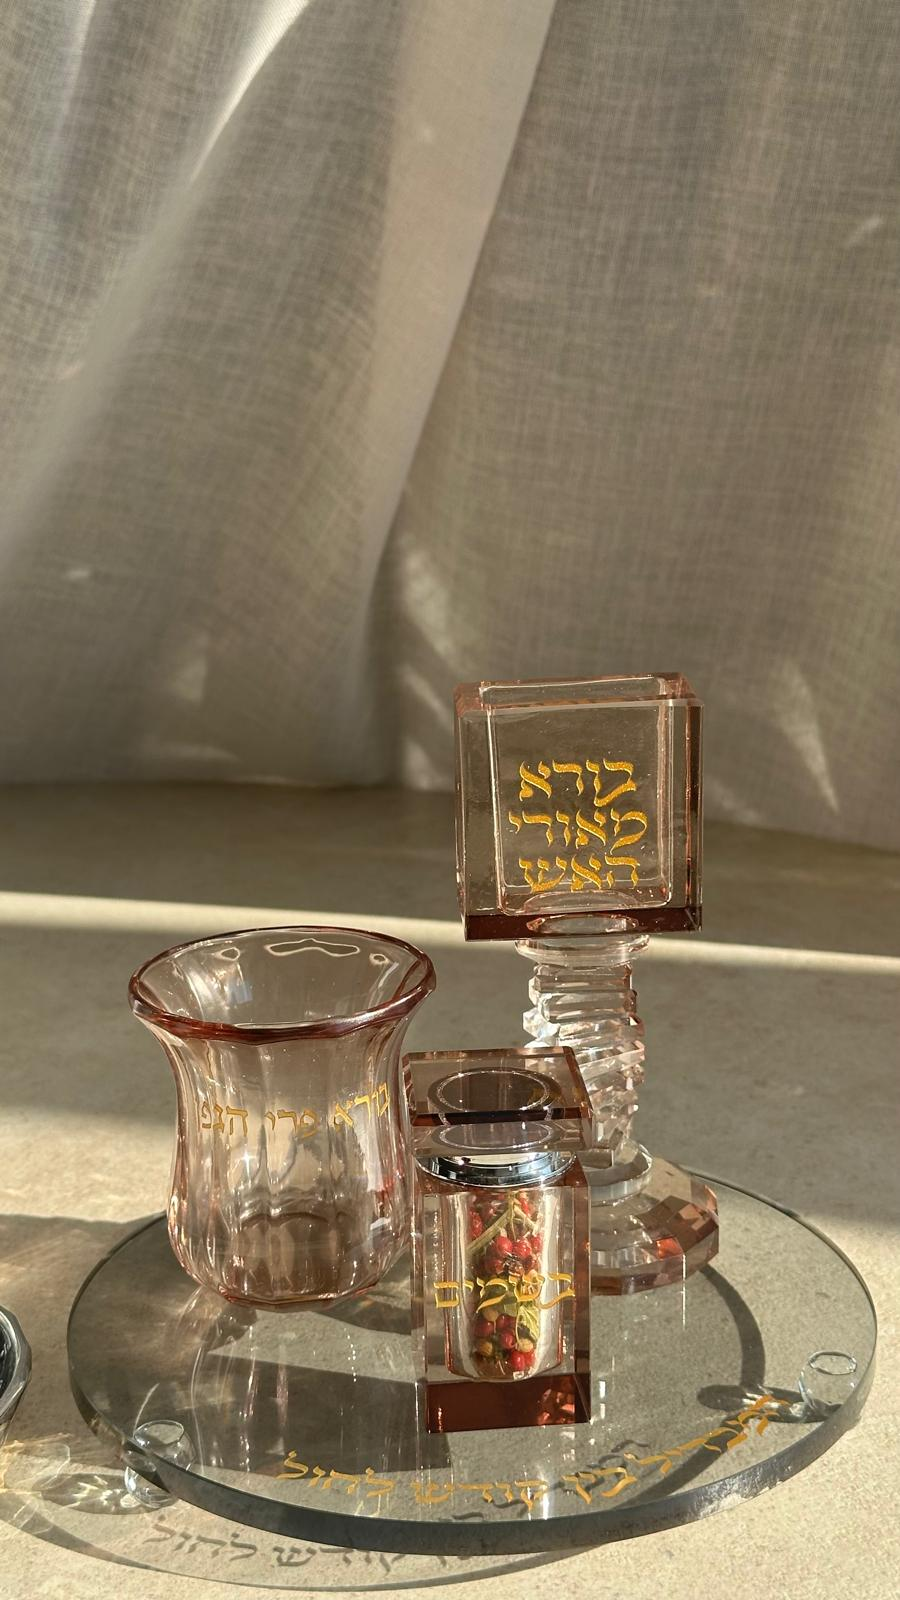
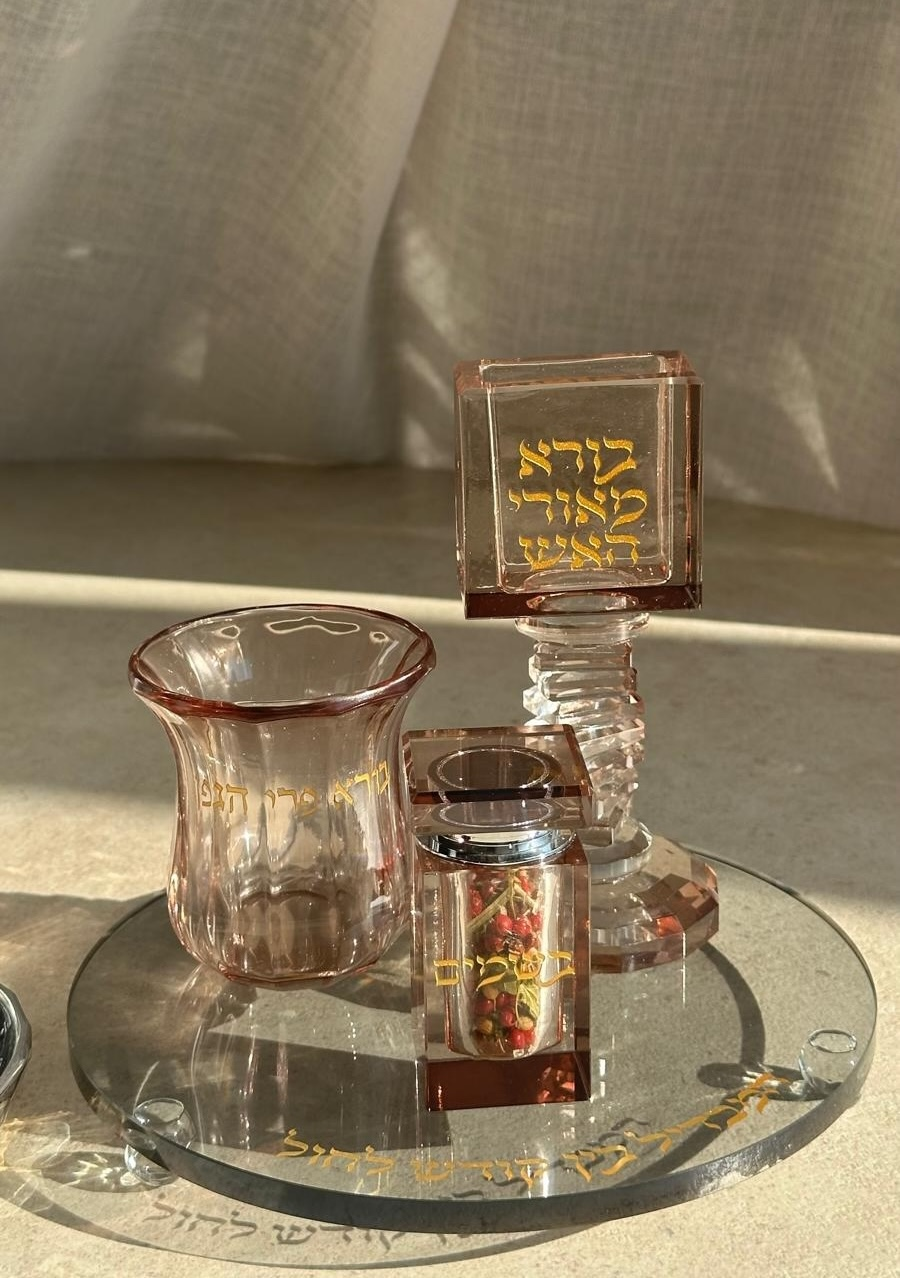
Update catalog content and product imagery

diff --git a/index.html b/index.html
@@ -58,10 +58,10 @@
     <p class="hero-tagline">אָמָנוּת · יוּדָאִיקָה</p>
     <div class="hero-actions">
       <a href="#categories" class="btn btn-primary">לקטלוג</a>
-      <a href="#about" class="btn btn-outline">הכירו אותנו</a>
+      <a href="holidays.html" class="btn btn-holiday">לקולקציות חגים ✦</a>
     </div>
     <div class="hero-actions-holiday">
-      <a href="holidays.html" class="btn btn-holiday">לקולקציות חגים ✦</a>
+      <a href="#about" class="btn btn-outline">הכירו אותנו</a>
     </div>
   </div>
   <div class="scroll-cue"></div>
@@ -178,6 +178,7 @@
           <h3>ברכת הבית</h3>
           <p class="pc-meta">מידה: 20 ס״מ</p>
           <p class="pc-desc">מזוזה בגוון שיש לבן אפור עם ברכת הבית.</p>
+          <p class="out-of-stock">אזל מהמלאי</p>
           <p class="price pc-price">120 ש״ח</p>
         </div>
       </article>
@@ -305,12 +306,128 @@
       <p class="warn">*מוצרים בהתאמה אישית, לרבות רקמה, חיתוך לייזר או הטבעה – אינם ניתנים להחזר כספי או להחלפה.</p>
     </div>
 
+    <div class="section-divider-heading reveal">
+      <h2>תְּפִלּוֹת</h2>
+    </div>
+
     <div class="bride-prayer reveal">
       <div class="bride-prayer-img"><img src="assets/img/siddur_tefila_lekala.jpg" alt="תפילה לכלה"></div>
       <div class="bride-prayer-body">
         <h3>תפילה לכלה</h3>
         <p class="pc-meta">אפשרות לחריטת שם / תאריך — תוספת 20 ש״ח</p>
         <p class="price">70 ש״ח</p>
+      </div>
+    </div>
+
+    <div class="shabbat-set reveal">
+      <div class="shabbat-set-inner">
+        <h3>סט חום מט</h3>
+      </div>
+      <div class="product-grid shabbat-set-grid">
+        <article class="product-card">
+          <div class="pc-img pc-img-swipe">
+            <div class="pc-img-track">
+              <img src="assets/img/shabbat_set_kiddush_0.jpg" alt="ספר קידוש לצד שאר ספרי הסט">
+              <img src="assets/img/shabbat_set_kiddush_1.jpg" alt="ספר קידוש בכריכת עור חום">
+              <img src="assets/img/shabbat_set_kiddush_2.jpg" alt="ספר קידוש פתוח">
+            </div>
+            <span class="pc-img-dots"><span class="dot active"></span><span class="dot"></span><span class="dot"></span></span>
+          </div>
+          <div class="pc-body">
+            <h3>ספר קידוש</h3>
+            <p class="pc-meta">כולל הטבעת שם</p>
+            <p class="price pc-price">120 ש״ח</p>
+          </div>
+        </article>
+        <article class="product-card">
+          <div class="pc-img pc-img-swipe">
+            <div class="pc-img-track">
+              <img src="assets/img/shabbat_set_candles_0.jpg" alt="ספר הדלקת נרות לצד שאר ספרי הסט">
+              <img src="assets/img/shabbat_set_candles_1.jpg" alt="ספר הדלקת נרות בכריכת עור חום">
+              <img src="assets/img/shabbat_set_candles_2.jpg" alt="ספר הדלקת נרות פתוח">
+            </div>
+            <span class="pc-img-dots"><span class="dot active"></span><span class="dot"></span><span class="dot"></span></span>
+          </div>
+          <div class="pc-body">
+            <h3>הדלקת נרות</h3>
+            <p class="pc-meta">כולל הטבעת שם</p>
+            <p class="pc-desc">כולל: תפילת חנה, בריאות, פרנסה, תפילה על הבעל, השל״ה.</p>
+            <p class="price pc-price">100 ש״ח</p>
+          </div>
+        </article>
+        <article class="product-card">
+          <div class="pc-img pc-img-swipe">
+            <div class="pc-img-track">
+              <img src="assets/img/shabbat_set_tchinot_1.jpg" alt="ספר תחינות בכריכת עור חום">
+              <img src="assets/img/shabbat_set_tchinot_2.jpg" alt="ספר תחינות פתוח">
+            </div>
+            <span class="pc-img-dots"><span class="dot active"></span><span class="dot"></span></span>
+          </div>
+          <div class="pc-body">
+            <h3>ספר תחינות</h3>
+            <p class="pc-meta">כולל הטבעת שם</p>
+            <p class="price pc-price">120 ש״ח</p>
+          </div>
+        </article>
+        <article class="product-card">
+          <div class="pc-img pc-img-swipe">
+            <div class="pc-img-track">
+              <img src="assets/img/shabbat_set_challah_1.jpg" alt="ספר הפרשת חלה בכריכת עור חום">
+              <img src="assets/img/shabbat_set_challah_2.jpg" alt="ספר הפרשת חלה פתוח">
+            </div>
+            <span class="pc-img-dots"><span class="dot active"></span><span class="dot"></span></span>
+          </div>
+          <div class="pc-body">
+            <h3>הפרשת חלה</h3>
+            <p class="price pc-price">40 ש״ח</p>
+          </div>
+        </article>
+      </div>
+      <div class="shabbat-set-offer">
+        <p>סט שלם: <span class="shabbat-set-was">380 ש״ח</span> <span class="price">355 ש״ח</span></p>
+      </div>
+    </div>
+
+    <div class="shabbat-set prayer-books reveal">
+      <div class="prayer-books-layout">
+        <div class="prayer-books-gallery pc-img-swipe" aria-label="גלריית ספרי תפילה נוספים">
+          <div class="pc-img-track">
+            <img src="assets/img/prayer_books_1.jpg" alt="ספרי תפילה בגוון פז פנינה" loading="lazy" decoding="async">
+            <img src="assets/img/prayer_books_2.jpg" alt="ספרי תפילה בגוון חום כהה" loading="lazy" decoding="async">
+            <img src="assets/img/prayer_books_3.jpg" alt="ספרי תפילה בגוון פז פנינה - מבט נוסף" loading="lazy" decoding="async">
+            <img src="assets/img/prayer_books_4.jpg" alt="ספרי תפילה בגווני חום כהה ופז פנינה" loading="lazy" decoding="async">
+            <img src="assets/img/prayer_books_5.jpg" alt="מבחר ספרי תפילה בשני גוונים" loading="lazy" decoding="async">
+          </div>
+          <span class="pc-img-dots" aria-hidden="true">
+            <span class="dot active"></span>
+            <span class="dot"></span>
+            <span class="dot"></span>
+            <span class="dot"></span>
+            <span class="dot"></span>
+          </span>
+        </div>
+
+        <div class="prayer-books-details">
+          <div class="prayer-books-heading">
+            <h3>ספרי תפילה עור עתיק</h3>
+            <p class="pc-meta">צבע: חום כהה / פז פנינה</p>
+          </div>
+
+          <div class="prayer-book-item">
+            <div>
+              <h4>תחינות האמהות</h4>
+              <p class="pc-meta">גודל: 17×10 ס״מ</p>
+            </div>
+            <p class="price">85 ש״ח</p>
+          </div>
+
+          <div class="prayer-book-item">
+            <div><h4>סדר הבדלה</h4></div>
+            <p class="price">50 ש״ח</p>
+          </div>
+
+          <p class="prayer-books-note">תוספת הטבעת שם 15 ש״ח</p>
+        </div>
       </div>
     </div>
   </div>
@@ -415,6 +532,7 @@
           <h3>ברכת הדלקת נרות</h3>
           <p class="pc-meta">דגם: אשת חיל</p>
           <p class="pc-desc">ברכון בעיצוב אלגנטי עם הטבעה מרכזית של תפילת "אשת חיל". כריכה בגוון בהיר עם מסגרת מעוטרת.</p>
+          <p class="out-of-stock">אזל מהמלאי</p>
           <p class="price pc-price">140 ש״ח</p>
         </div>
       </article>
@@ -425,6 +543,7 @@
           <p class="pc-meta">דגם: קריסטל חלבי</p>
           <p class="pc-desc">כוס קידוש עם כיתוב ברכה עדין בגודל 16 ס״מ. מראה אלגנטי ושקט המתאים לשולחן שבת וחג.</p>
           <p class="out-of-stock">אזל מהמלאי</p>
+          <p class="price pc-price">149 ש״ח</p>
         </div>
       </article>
       <article class="product-card">
@@ -434,15 +553,6 @@
           <p class="pc-meta">דגם: מראה כסופה</p>
           <p class="pc-desc">ברכת הדלקת נרות שבת על מראה מעוטרת, עם אפקט קרני אור. עיצוב אלגנטי ומאיר.</p>
           <p class="price pc-price">45 ש״ח</p>
-        </div>
-      </article>
-      <article class="product-card">
-        <div class="pc-img"><img src="assets/img/shabbat_14.jpg" alt="סדר הבדלה קלאסי"></div>
-        <div class="pc-body">
-          <h3>סדר הבדלה</h3>
-          <p class="pc-meta">דגם: קלאסי</p>
-          <p class="pc-desc">סדר הבדלה בכריכה דמוית עור בגוון בז׳ בהיר, עם הטבעה מרכזית ומסגרת מעוטרת בעדינות.</p>
-          <p class="price pc-price">85 ש״ח</p>
         </div>
       </article>
       <article class="product-card">
@@ -582,126 +692,6 @@
       </article>
     </div>
 
-    <div class="shabbat-set reveal">
-      <div class="shabbat-set-inner">
-        <h3>סט תפילות</h3>
-        <p class="pc-meta">דגם: עור חום</p>
-      </div>
-      <div class="product-grid shabbat-set-grid">
-        <article class="product-card">
-          <div class="pc-img pc-img-swipe">
-            <div class="pc-img-track">
-              <img src="assets/img/shabbat_set_kiddush_0.jpg" alt="ספר קידוש לצד שאר ספרי הסט">
-              <img src="assets/img/shabbat_set_kiddush_1.jpg" alt="ספר קידוש בכריכת עור חום">
-              <img src="assets/img/shabbat_set_kiddush_2.jpg" alt="ספר קידוש פתוח">
-            </div>
-            <span class="pc-img-dots"><span class="dot active"></span><span class="dot"></span><span class="dot"></span></span>
-          </div>
-          <div class="pc-body">
-            <h3>ספר קידוש</h3>
-            <p class="pc-meta">כולל הטבעת שם</p>
-            <p class="price pc-price">120 ש״ח</p>
-          </div>
-        </article>
-        <article class="product-card">
-          <div class="pc-img pc-img-swipe">
-            <div class="pc-img-track">
-              <img src="assets/img/shabbat_set_candles_0.jpg" alt="ספר הדלקת נרות לצד שאר ספרי הסט">
-              <img src="assets/img/shabbat_set_candles_1.jpg" alt="ספר הדלקת נרות בכריכת עור חום">
-              <img src="assets/img/shabbat_set_candles_2.jpg" alt="ספר הדלקת נרות פתוח">
-            </div>
-            <span class="pc-img-dots"><span class="dot active"></span><span class="dot"></span><span class="dot"></span></span>
-          </div>
-          <div class="pc-body">
-            <h3>הדלקת נרות</h3>
-            <p class="pc-meta">כולל הטבעת שם</p>
-            <p class="pc-desc">כולל: תפילת חנה, בריאות, פרנסה, תפילה על הבעל, השל״ה.</p>
-            <p class="price pc-price">100 ש״ח</p>
-          </div>
-        </article>
-        <article class="product-card">
-          <div class="pc-img pc-img-swipe">
-            <div class="pc-img-track">
-              <img src="assets/img/shabbat_set_tchinot_1.jpg" alt="ספר תחינות בכריכת עור חום">
-              <img src="assets/img/shabbat_set_tchinot_2.jpg" alt="ספר תחינות פתוח">
-            </div>
-            <span class="pc-img-dots"><span class="dot active"></span><span class="dot"></span></span>
-          </div>
-          <div class="pc-body">
-            <h3>ספר תחינות</h3>
-            <p class="pc-meta">כולל הטבעת שם</p>
-            <p class="price pc-price">120 ש״ח</p>
-          </div>
-        </article>
-        <article class="product-card">
-          <div class="pc-img pc-img-swipe">
-            <div class="pc-img-track">
-              <img src="assets/img/shabbat_set_challah_1.jpg" alt="ספר הפרשת חלה בכריכת עור חום">
-              <img src="assets/img/shabbat_set_challah_2.jpg" alt="ספר הפרשת חלה פתוח">
-            </div>
-            <span class="pc-img-dots"><span class="dot active"></span><span class="dot"></span></span>
-          </div>
-          <div class="pc-body">
-            <h3>הפרשת חלה</h3>
-            <p class="price pc-price">40 ש״ח</p>
-          </div>
-        </article>
-      </div>
-      <div class="shabbat-set-offer">
-        <p>סט שלם: <span class="shabbat-set-was">380 ש״ח</span> <span class="price">355 ש״ח</span></p>
-      </div>
-    </div>
-
-    <div class="shabbat-set prayer-books reveal">
-      <div class="prayer-books-layout">
-        <div class="prayer-books-gallery pc-img-swipe" aria-label="גלריית ספרי תפילה נוספים">
-          <div class="pc-img-track">
-            <img src="assets/img/prayer_books_1.jpg" alt="ספרי תפילה בגוון פז פנינה" loading="lazy" decoding="async">
-            <img src="assets/img/prayer_books_2.jpg" alt="ספרי תפילה בגוון חום כהה" loading="lazy" decoding="async">
-            <img src="assets/img/prayer_books_3.jpg" alt="ספרי תפילה בגוון פז פנינה - מבט נוסף" loading="lazy" decoding="async">
-            <img src="assets/img/prayer_books_4.jpg" alt="ספרי תפילה בגווני חום כהה ופז פנינה" loading="lazy" decoding="async">
-            <img src="assets/img/prayer_books_5.jpg" alt="מבחר ספרי תפילה בשני גוונים" loading="lazy" decoding="async">
-          </div>
-          <span class="pc-img-dots" aria-hidden="true">
-            <span class="dot active"></span>
-            <span class="dot"></span>
-            <span class="dot"></span>
-            <span class="dot"></span>
-            <span class="dot"></span>
-          </span>
-        </div>
-
-        <div class="prayer-books-details">
-          <div class="prayer-books-heading">
-            <h3>ספרי תפילה נוספים</h3>
-            <p class="pc-meta">צבע: חום כהה / פז פנינה</p>
-          </div>
-
-          <div class="prayer-book-item">
-            <div>
-              <h4>כי ביתי בית תפילה</h4>
-              <p class="pc-meta">גודל: 10×14 ס״מ</p>
-            </div>
-            <p class="price">110 ש״ח</p>
-          </div>
-
-          <div class="prayer-book-item">
-            <div>
-              <h4>תחינות האמהות</h4>
-              <p class="pc-meta">גודל: 17×10 ס״מ</p>
-            </div>
-            <p class="price">85 ש״ח</p>
-          </div>
-
-          <div class="prayer-book-item">
-            <div><h4>סדר הבדלה</h4></div>
-            <p class="price">50 ש״ח</p>
-          </div>
-
-          <p class="prayer-books-note">תוספת הטבעת שם 15 ש״ח</p>
-        </div>
-      </div>
-    </div>
   </div>
 </section>
 
@@ -844,6 +834,10 @@
 
 
     <div class="pc-gallery reveal" id="kippotGallery">
+      <p class="pcg-hint">
+        <svg width="16" height="16" viewBox="0 0 24 24" fill="none" stroke="currentColor" stroke-width="1.6" stroke-linecap="round" stroke-linejoin="round"><path d="M9 11.5V5.5a1.5 1.5 0 0 1 3 0v5"/><path d="M12 10.5v-2a1.5 1.5 0 0 1 3 0v2.5"/><path d="M15 10.8V10a1.5 1.5 0 0 1 3 0v4.5c0 3.31-2.69 6-6 6h-1a5 5 0 0 1-4.2-2.28l-2.35-3.6a1.4 1.4 0 0 1 2.13-1.8L9 15"/></svg>
+        לחצו על כיפה כדי לראות פרטים ומחיר
+      </p>
       <div class="pcg-grid">
         <button type="button" class="pcg-thumb active" data-title="כיפת יברכך" data-meta="מידה: 19 ס״מ" data-desc="כיפת קטיפה בגוון אפור זמש, עם כיתוב מובלט בכסף &quot;יברכך ה׳ וישמרך&quot;. מראה נקי ואלגנטי, מתאים לשימוש יומיומי ולשבתות וחגים." data-price="40 ש״ח">
           <img src="assets/img/kippah_1.jpg" alt="כיפת יברכך">

diff --git a/assets/css/style.css b/assets/css/style.css
@@ -442,6 +442,9 @@ html[dir="rtl"] .cat-watermark.left { left: -20px; }
 }
 .cat-header p { font-size: 16px; color: var(--brown-1); }
 
+.section-divider-heading { text-align: center; margin: 60px auto 40px; }
+.section-divider-heading h2 { font-size: clamp(36px, 5vw, 60px); }
+
 .cat-hero-photo {
   position: relative;
   z-index: 1;
@@ -475,7 +478,7 @@ html[dir="rtl"] .cat-watermark.left { left: -20px; }
 .product-card:hover { transform: translateY(-6px); }
 .product-card .pc-img { aspect-ratio: 5/4; overflow: hidden; }
 .mezuzah-collection .pc-img { aspect-ratio: 7/5; }
-#shabbat .pc-img { aspect-ratio: 2/3; }
+#shabbat .pc-img, #siddurim .shabbat-set .pc-img { aspect-ratio: 2/3; }
 .holiday-section .product-card .pc-img { aspect-ratio: 3/5; }
 .product-card .pc-img img { width: 100%; height: 100%; object-fit: cover; transition: transform 0.6s ease; }
 .product-card:hover .pc-img img { transform: scale(1.06); }
@@ -670,6 +673,16 @@ html[dir="rtl"] .cat-watermark.left { left: -20px; }
 
 /* click-to-select product gallery (kippot): grid of photos + one shared detail card below */
 .pc-gallery { position: relative; z-index: 1; }
+.pcg-hint {
+  display: flex;
+  align-items: center;
+  justify-content: center;
+  gap: 8px;
+  font-size: 13px;
+  color: var(--brown-light);
+  margin-bottom: 18px;
+}
+.pcg-hint svg { flex-shrink: 0; opacity: 0.8; }
 .pcg-grid {
   display: grid;
   grid-template-columns: repeat(4, 1fr);
@@ -839,6 +852,9 @@ html[dir="rtl"] .cat-watermark.left { left: -20px; }
   text-align: center;
   max-width: 780px;
   margin-inline: auto;
+  border: 1px solid var(--brown-light);
+  border-radius: var(--radius-card);
+  padding: 32px 40px;
 }
 .embroidery-note h3 { font-size: 30px; margin-bottom: 16px; }
 .embroidery-note p { font-size: 15px; margin-bottom: 6px; }
